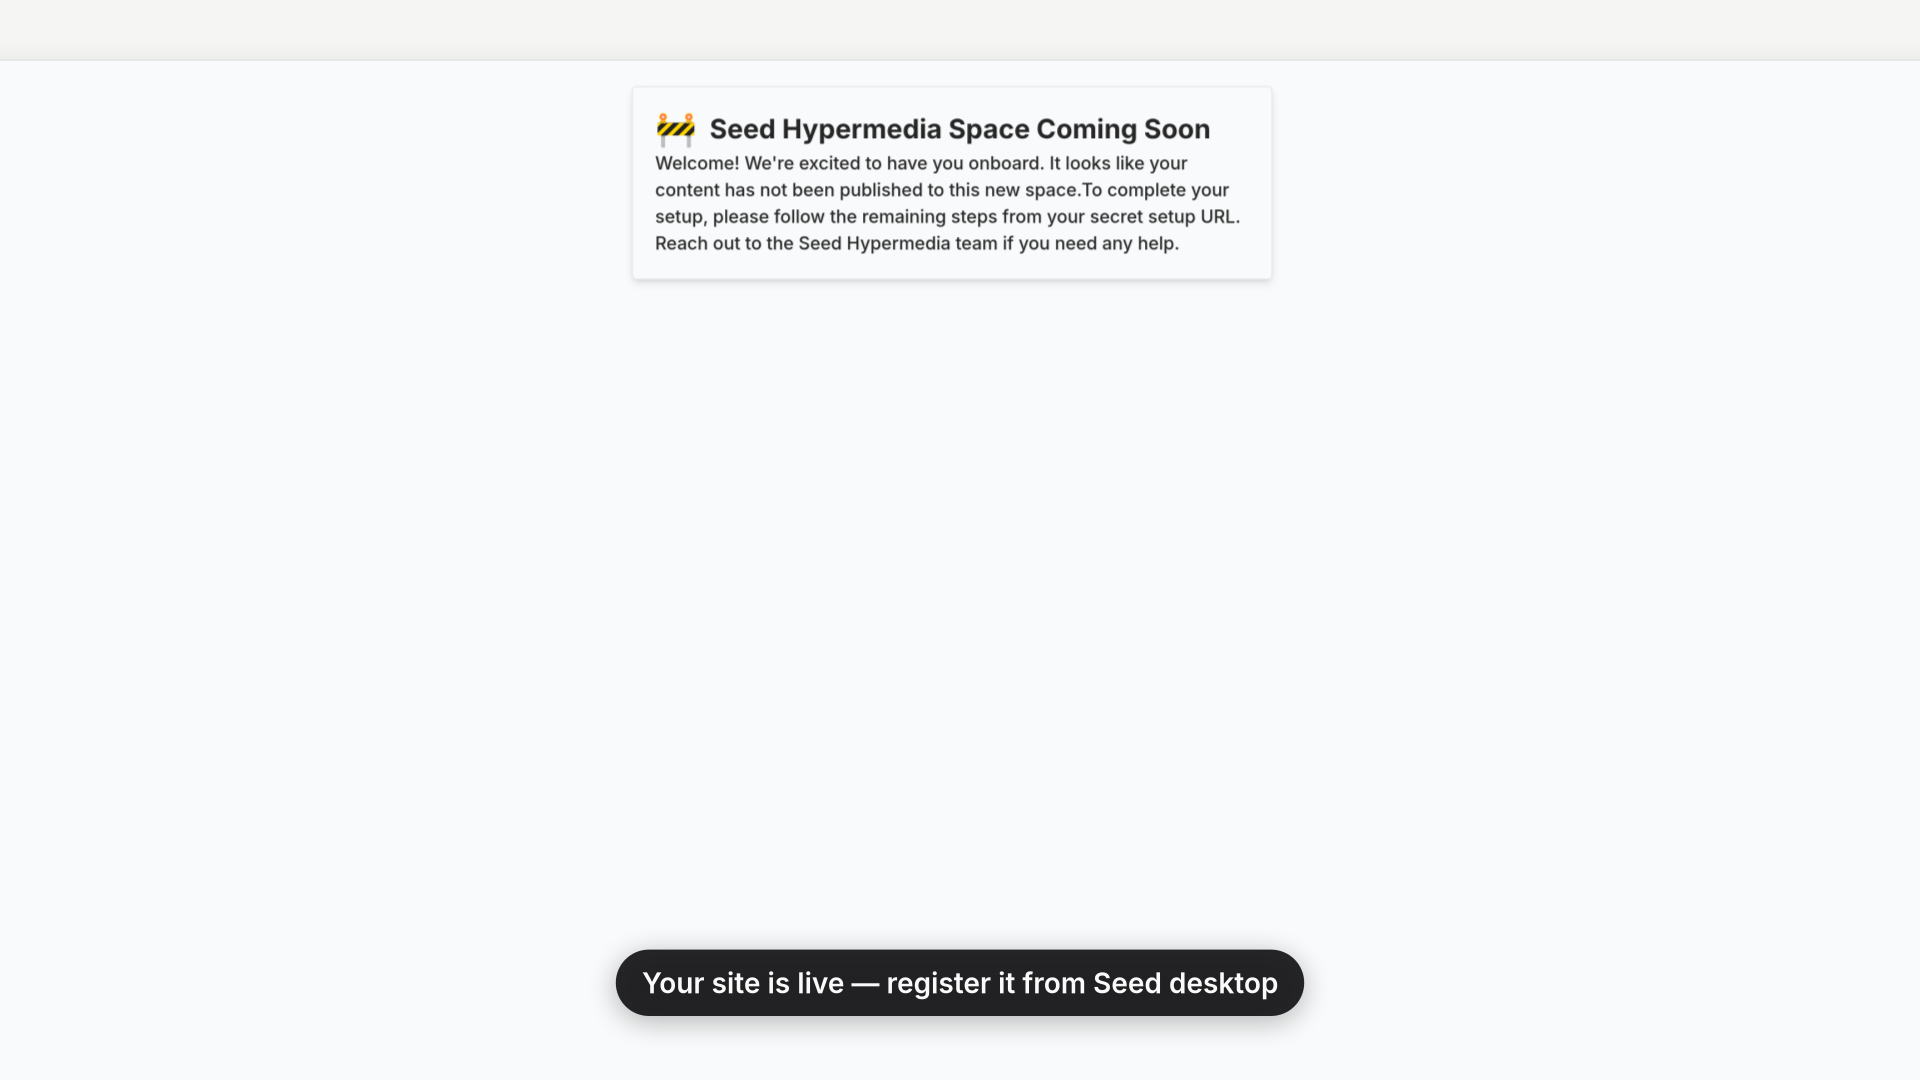
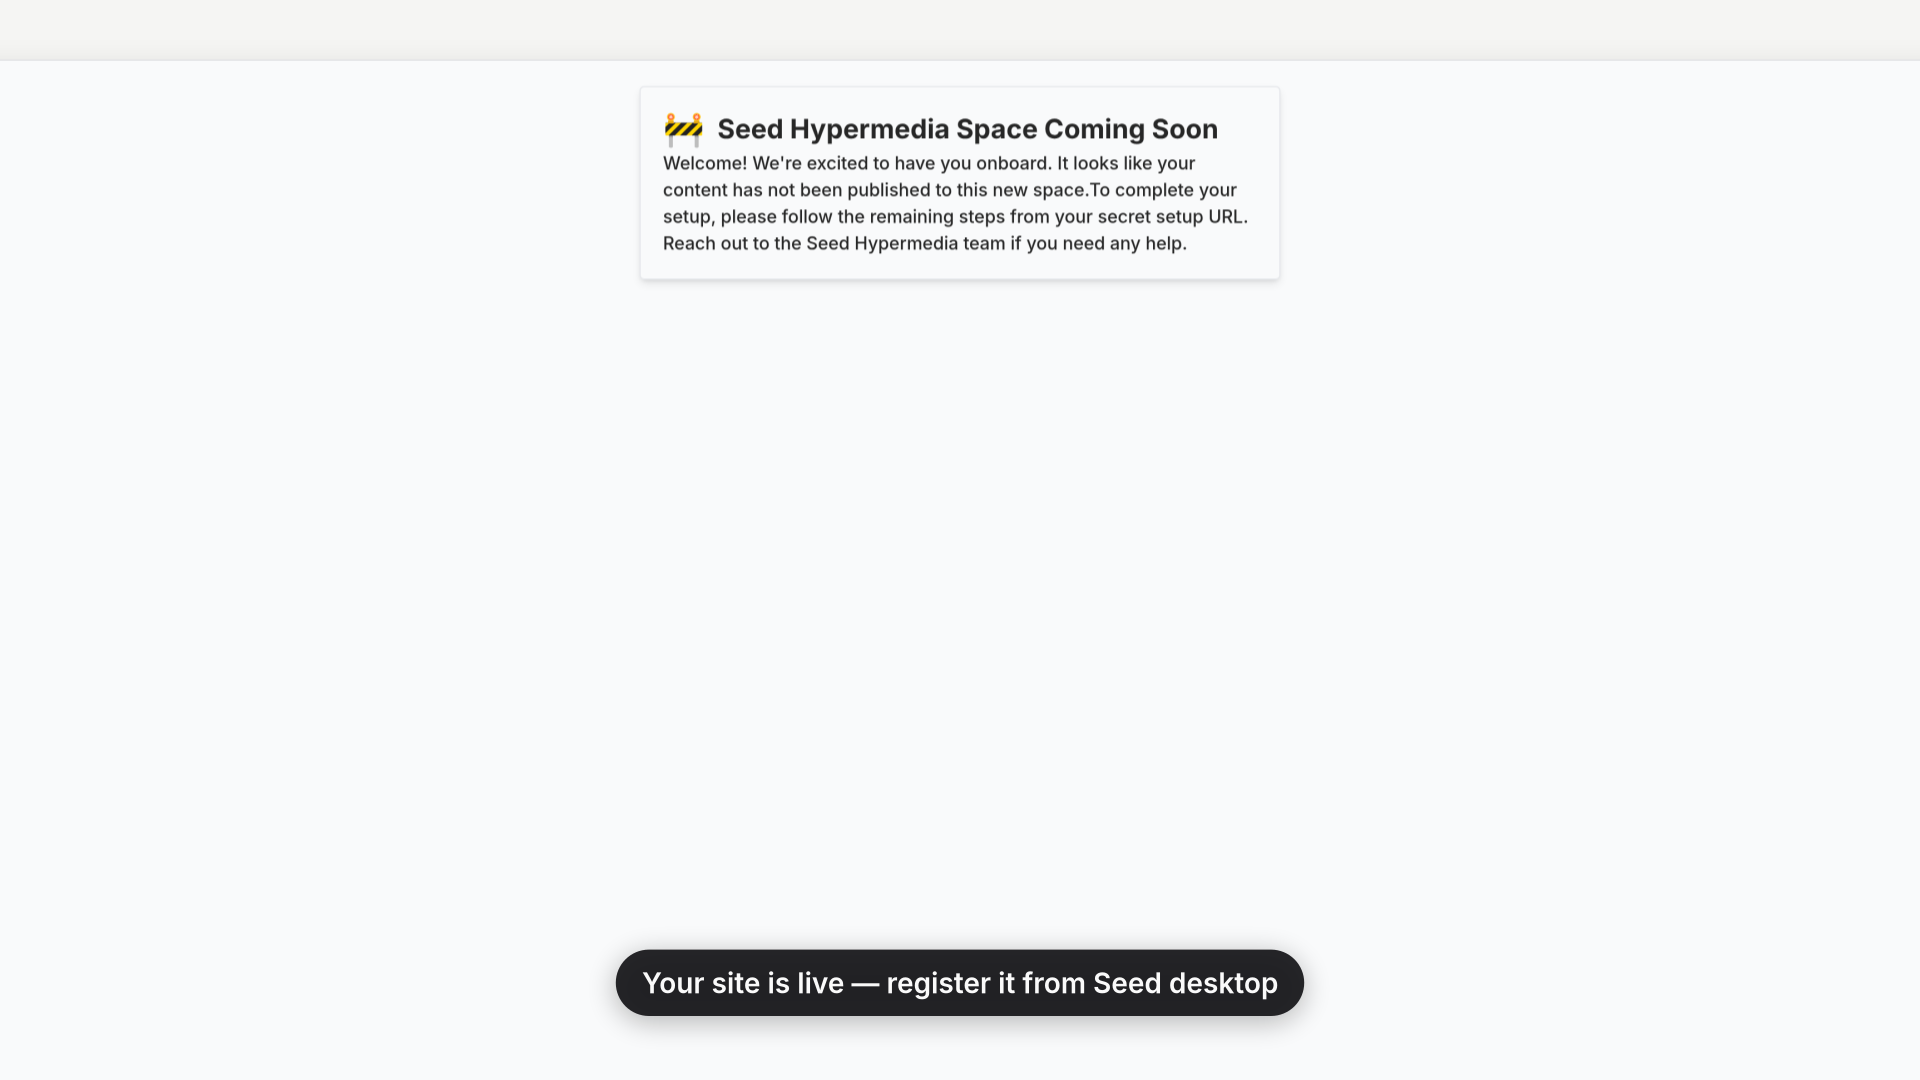
fix(ops): correct stale Coolify status and site framing

Changed region(s): [[0.3438, 0.0917, 0.6562, 0.2444]]

diff --git a/ops/coolify/video/spec.js b/ops/coolify/video/spec.js
@@ -34,6 +34,7 @@ export default {
     {name: 'updater-deploy', zoom: true},
     {name: 'updater-running', zoom: true, speed: true},
     {name: 'updater-close-logs', zoom: true},
+    {name: 'updater-status', zoom: true},
     {name: 'site', zoom: true, hold: 900},
   ],
 }
